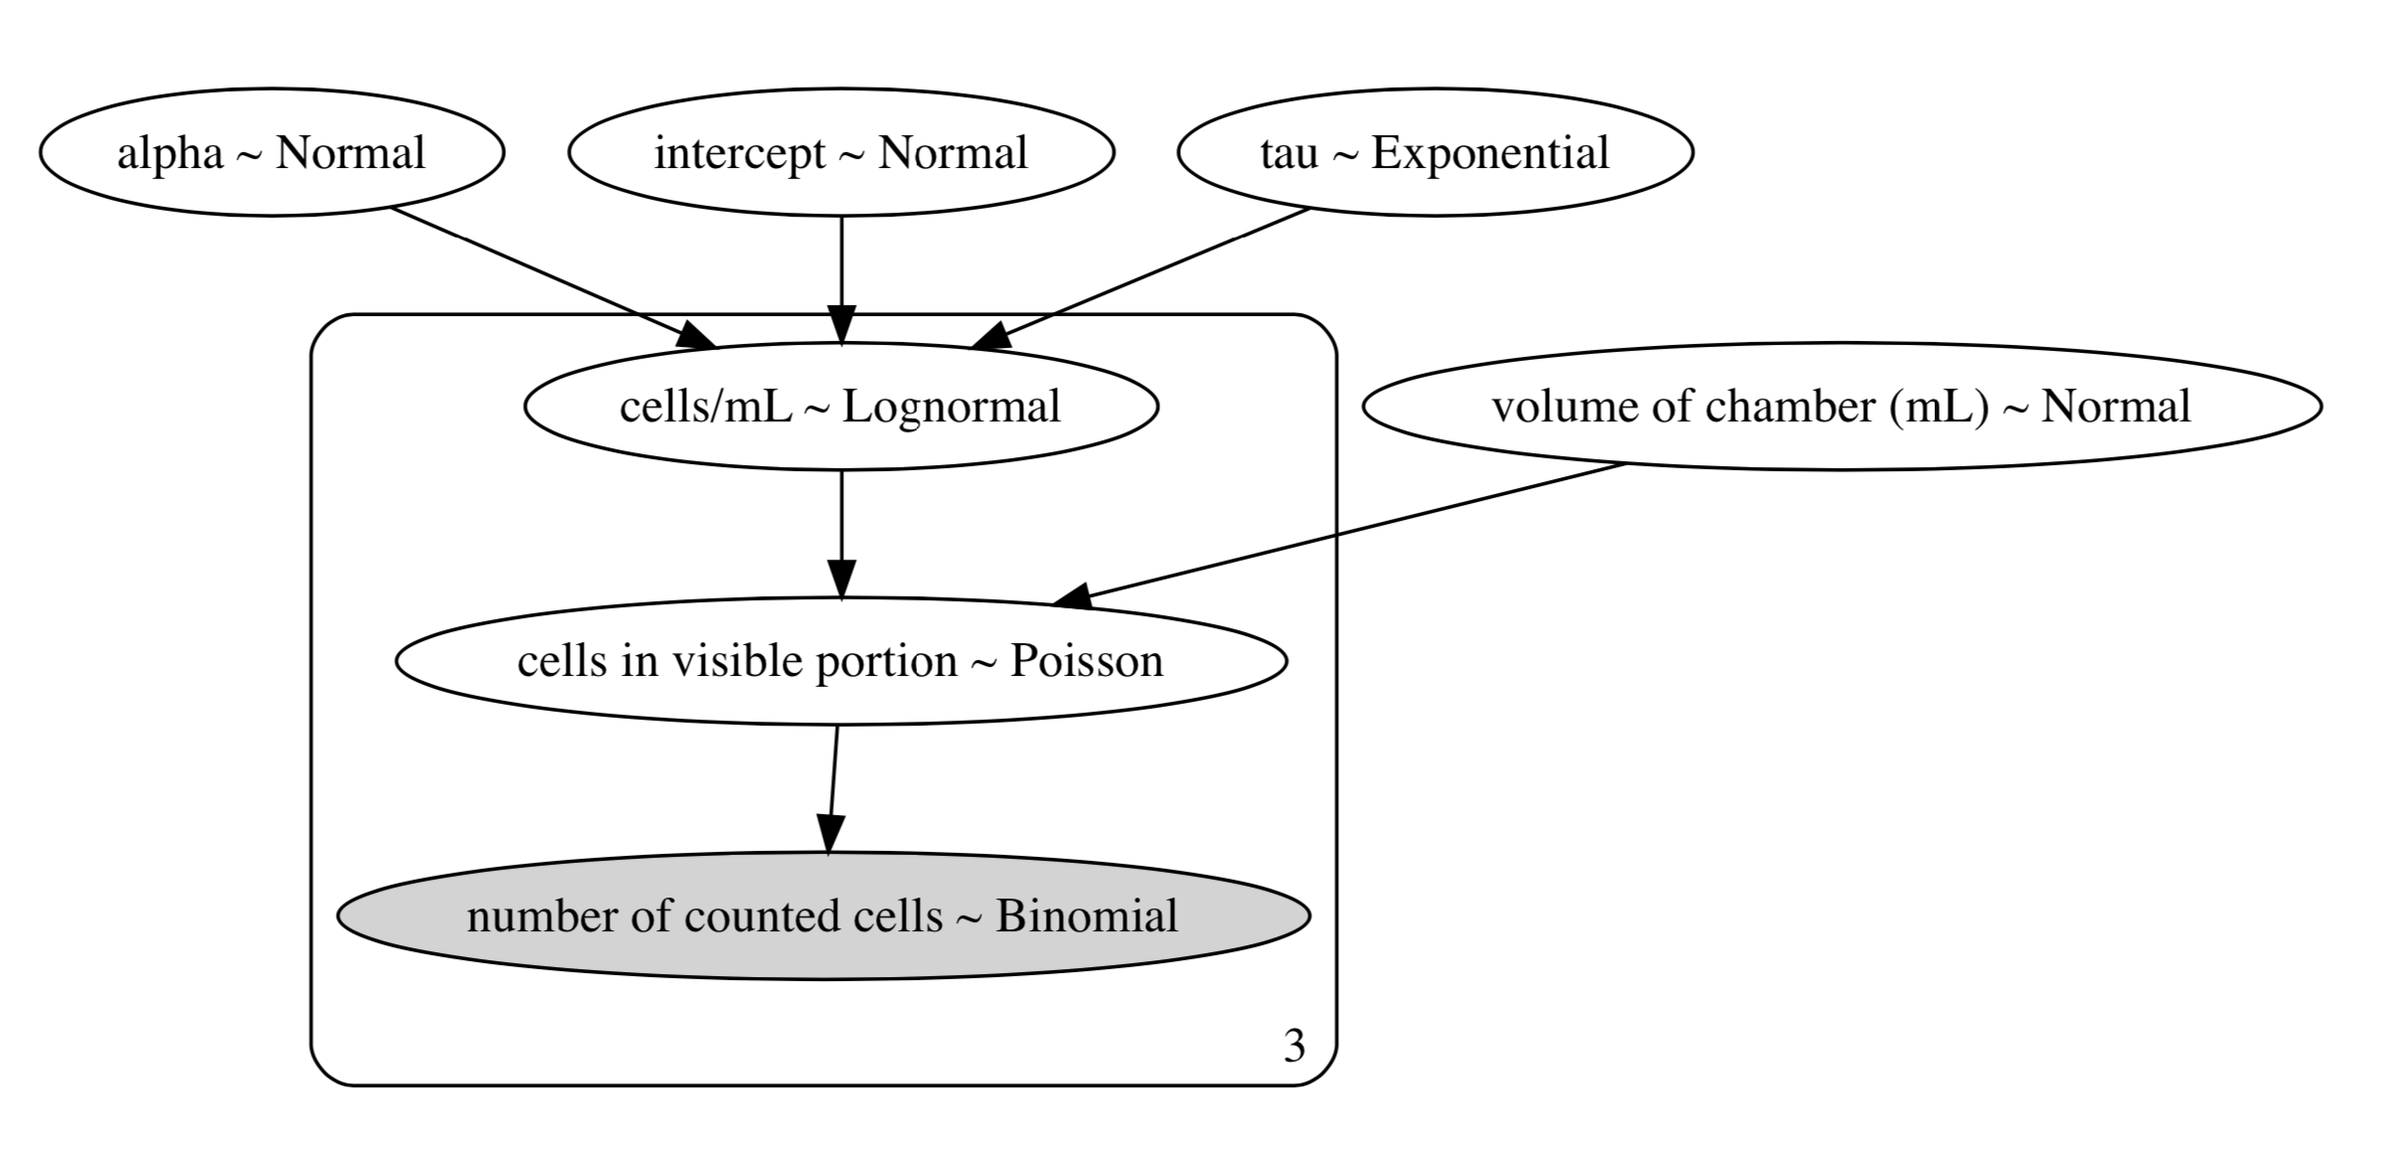
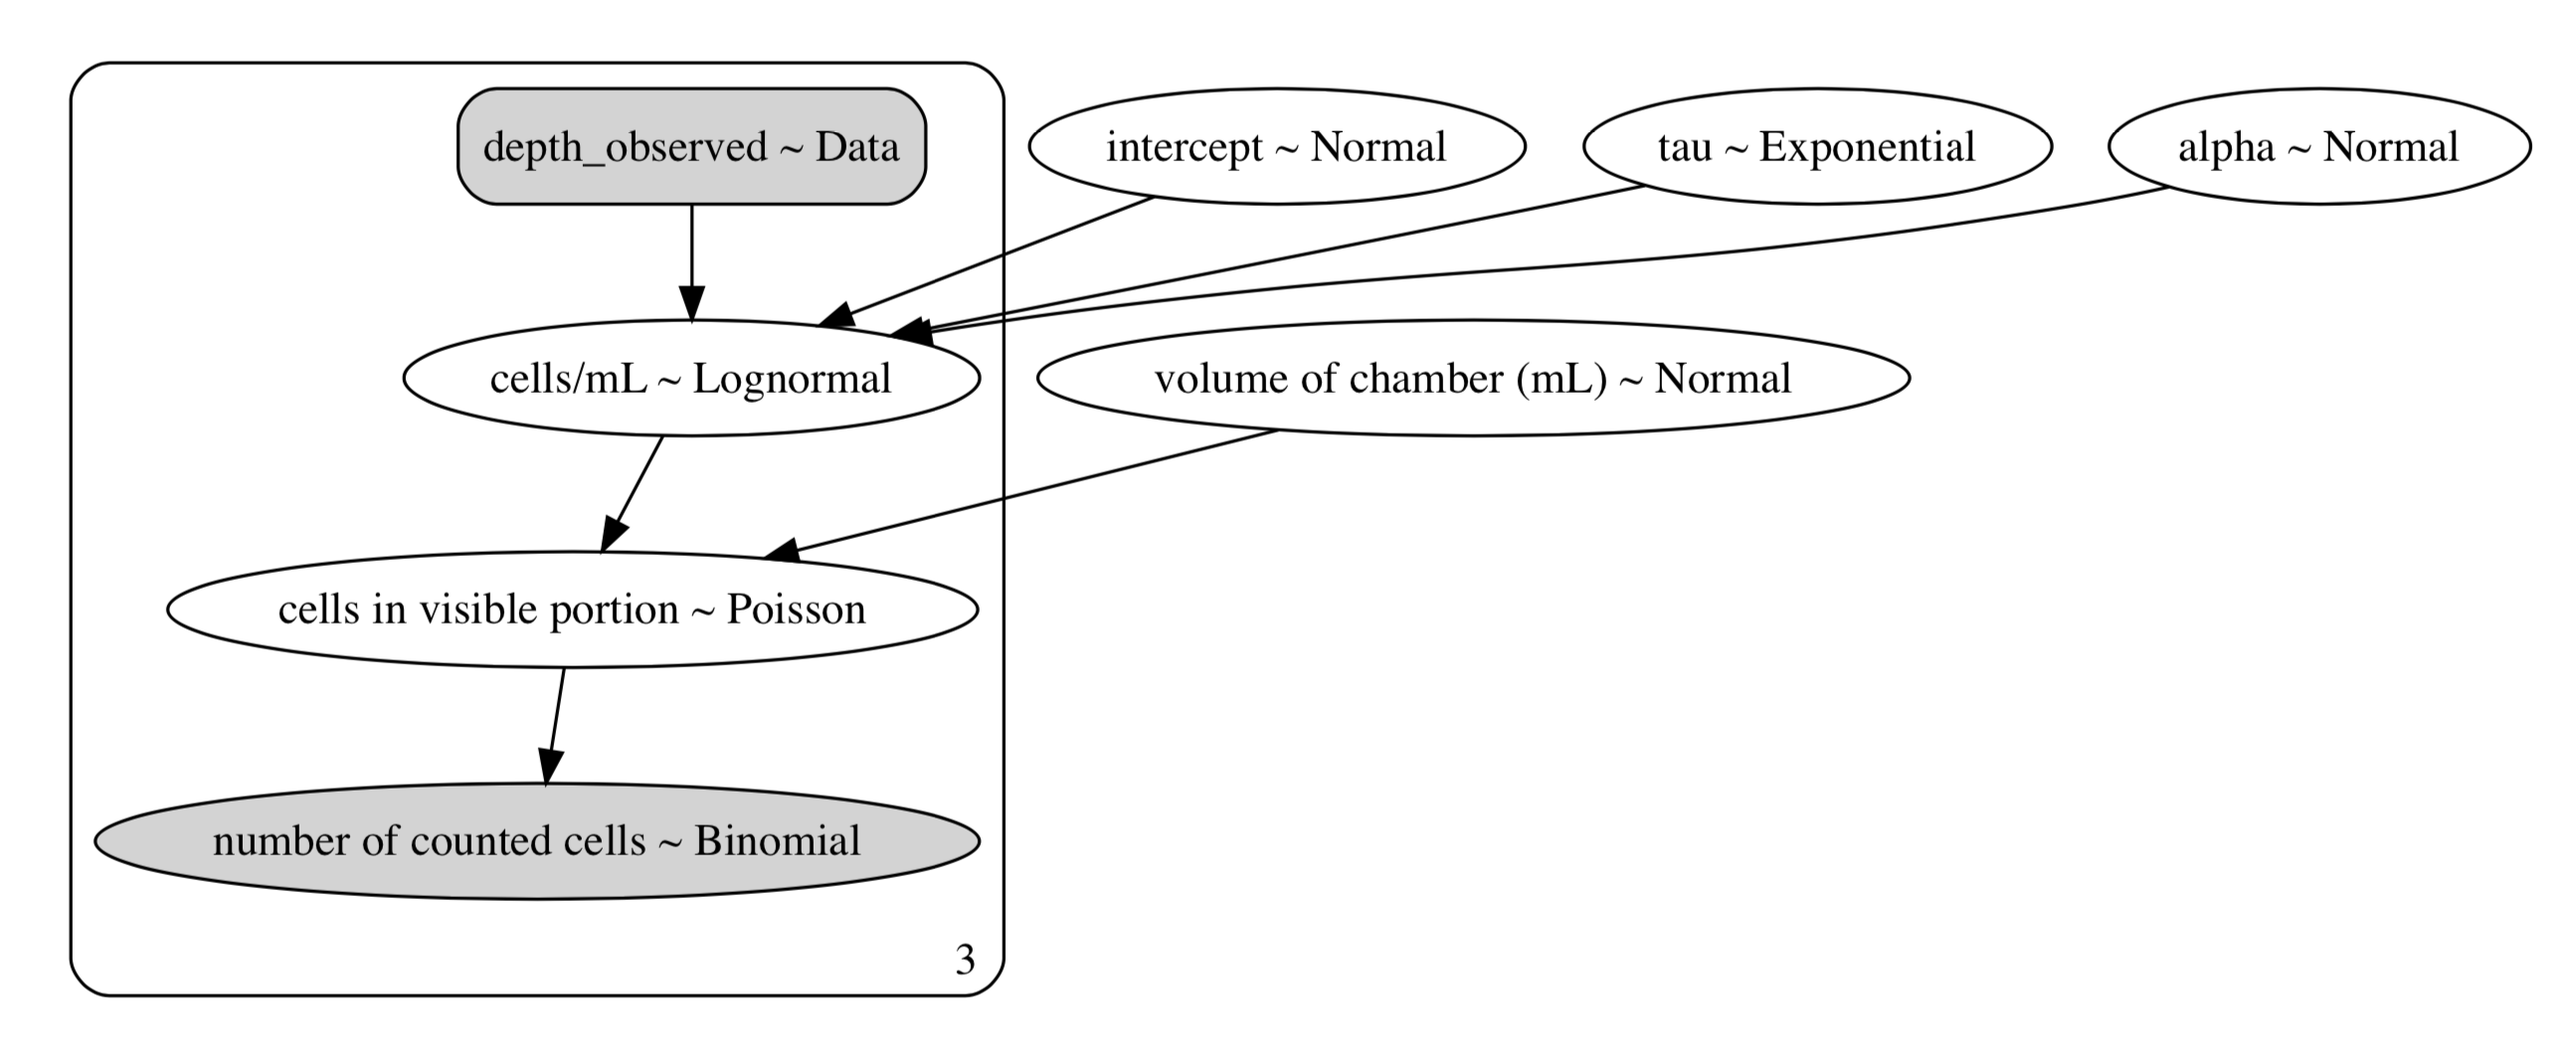
put data into dag

diff --git a/secchi_stick_corrorborated_with_hemocytometer.py b/secchi_stick_corrorborated_with_hemocytometer.py
@@ -23,16 +23,19 @@ depth_observed = np.array([1.4, 2.4, 1.7])
 N = cells_counted.shape[0]
 
 with pm.Model() as model:
+
+    depth_observed = pm.Data('depth_observed', depth_observed)
+
     alpha = pm.Normal("alpha", mu=0, sd=10)
 
     # I need a test value here because of under/over flow problems.
     intercept = pm.Normal("intercept", mu=0, sd=10, testval=15)
     tau = pm.Exponential("tau", 0.1)
 
-    actual_depth = pm.Uniform("actual depth", lower=0, upper=10, shape=N)
-    depth = pm.Normal("depth observed", mu=actual_depth, sd=0.1, observed=depth_observed)
+    #actual_depth = pm.Uniform("actual depth", lower=0, upper=10, shape=N)
+    #depth = pm.Normal("depth observed", mu=actual_depth, sd=0.1, observed=depth_observed)
 
-    cells_conc = pm.Lognormal("cells/mL", mu=alpha * actual_depth + intercept, tau=tau, shape=N)
+    cells_conc = pm.Lognormal("cells/mL", mu=alpha * depth_observed + intercept, tau=tau, shape=N)
 
     final_dilution_factor = 1
     # the manufacturer suggests that depth of the chamber is 0.01cm ± 0.0004cm. Let's assume the worst and double the error.
